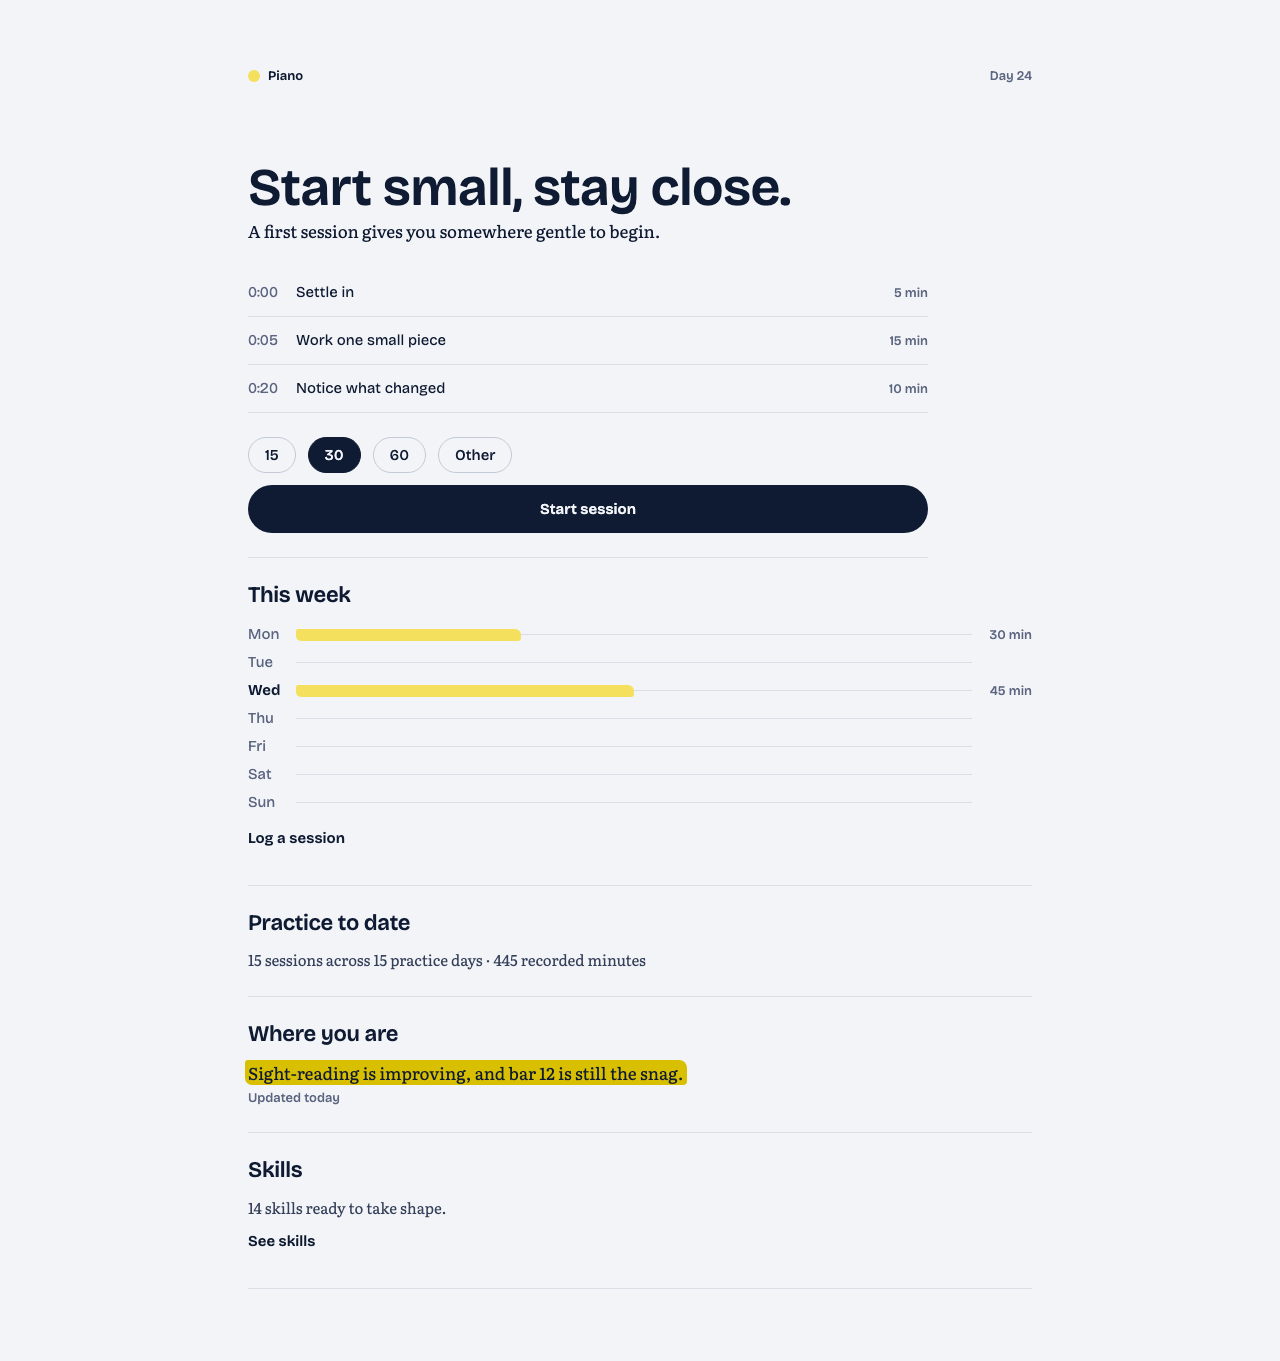
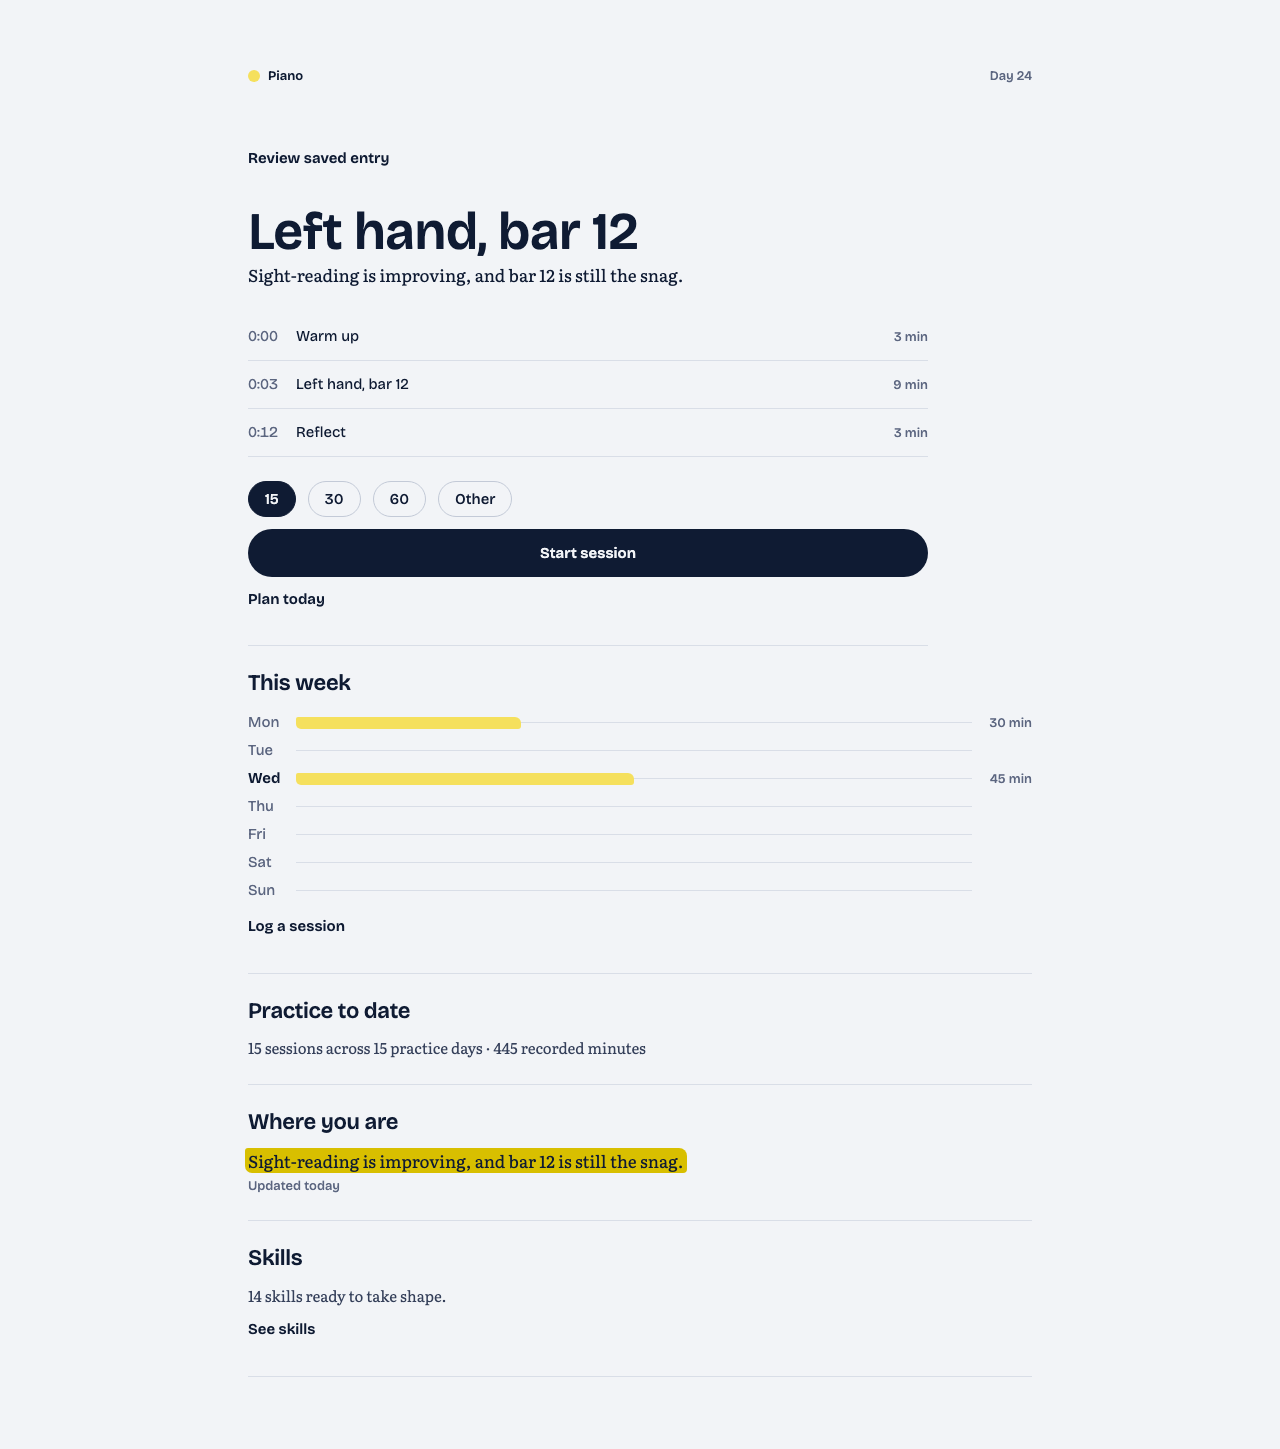
feat: generate timed plans and persist focus sessions through logging

diff --git a/app/j/[id]/page.tsx b/app/j/[id]/page.tsx
@@ -6,7 +6,8 @@ import Link from "next/link";
 import { notFound, redirect } from "next/navigation";
 import { getJourneyView } from "@/lib/db/queries";
 import { Button } from "@/components/ui/button";
-import { Chip } from "@/components/ui/chip";
+import { SessionDuration } from "@/components/features/session-duration";
+import { beginFocus } from "./plan/actions";
 import { WeekLines } from "@/components/marks/week-lines";
 import { Mark } from "@/components/marks/mark";
 
@@ -37,4 +38,4 @@ export default async function Home({ params, searchParams }: PageProps<"/j/[id]"
   return <main className="journey" style={{ "--hue": view.journey.hue } as React.CSSProperties}><header className="topbar"><Link href="/new" className="journey-pill"><i />{view.journey.name}</Link><span>Day {Math.max(1, differenceInCalendarDays(now, parseISO(view.journey.startDate)) + 1)}</span></header>{saved && <p role="status">Entry saved.</p>}<ResumeExtractions entries={outstanding.filter(row=>row.status!=="ready").map(row=>row.id)} />{outstanding.length>0 && <Link className="text-link" href={`/j/${id}/log?entry=${outstanding[0].id}`}>Review saved entry</Link>}<section className="home-hero"><h1>{plan?.title ?? "Start small, stay close."}</h1><p className="reading">{plan?.why || "A first session gives you somewhere gentle to begin."}</p><div className="session-preview">{plan ? plan.blocks.map((block,i)=>{
     const offset=elapsed; elapsed+=block.minutes;
     return <p key={i}><span>{Math.floor(offset/60)}:{String(offset%60).padStart(2,"0")}</span>{block.title}<small>{block.minutes} min</small></p>;
-  }) : <><p><span>0:00</span> Settle in <small>5 min</small></p><p><span>0:05</span> Work one small piece <small>15 min</small></p><p><span>0:20</span> Notice what changed <small>10 min</small></p></>}</div><div className="cluster"><Chip>15</Chip><Chip selected>30</Chip><Chip>60</Chip><Chip>Other</Chip></div><Button>Start session</Button></section><section><h2>This week</h2><WeekLines days={days} /><Link className="text-link" href={`/j/${id}/log`}>Log a session</Link></section><section><h2>Practice to date</h2><p className="reading-small">{sessions.length} {sessions.length === 1 ? "session" : "sessions"} across {practiceDays} practice {practiceDays === 1 ? "day" : "days"} · {totalMinutes} recorded minutes</p></section><section><h2>Where you are</h2><p className="reading"><Mark deep>{view.state?.summary || view.charter?.startingPoint || "Starting from where you are today."}</Mark></p><small>Updated today</small></section><section><h2>Skills</h2><p className="reading-small">{view.skills.length} skills ready to take shape.</p><Link className="text-link" href={`/j/${id}/skills`}>See skills</Link></section></main>; }
+  }) : <><p><span>0:00</span> Settle in <small>5 min</small></p><p><span>0:05</span> Work one small piece <small>15 min</small></p><p><span>0:20</span> Notice what changed <small>10 min</small></p></>}</div><SessionDuration key={plan?.id ?? "first"} journey={id} minutes={plan?.blocks.reduce((sum,b)=>sum+b.minutes,0) ?? 30}/>{plan ? <form action={beginFocus.bind(null,id,plan.id)}><Button>Start session</Button></form> : <Link className="button button--primary" href={`/j/${id}/plan`}>Plan today</Link>}{plan && <Link className="text-link" href={`/j/${id}/plan`}>Plan today</Link>}</section><section><h2>This week</h2><WeekLines days={days} /><Link className="text-link" href={`/j/${id}/log`}>Log a session</Link></section><section><h2>Practice to date</h2><p className="reading-small">{sessions.length} {sessions.length === 1 ? "session" : "sessions"} across {practiceDays} practice {practiceDays === 1 ? "day" : "days"} · {totalMinutes} recorded minutes</p></section><section><h2>Where you are</h2><p className="reading"><Mark deep>{view.state?.summary || view.charter?.startingPoint || "Starting from where you are today."}</Mark></p><small>Updated today</small></section><section><h2>Skills</h2><p className="reading-small">{view.skills.length} skills ready to take shape.</p><Link className="text-link" href={`/j/${id}/skills`}>See skills</Link></section></main>; }

diff --git a/components/features/focus-timer.tsx b/components/features/focus-timer.tsx
@@ -1,0 +1,59 @@
+"use client";
+import Link from "next/link";
+import { useEffect,useState } from "react";
+import type { Plan } from "@/lib/db/plans";
+import { Button } from "@/components/ui/button";
+import { finishFocus } from "@/app/j/[id]/plan/actions";
+
+type Position = {index:number; remaining:number; deadline:number|null};
+export function FocusTimer({journey,plan}:{journey:string;plan:Plan & {id:string;status:string}}) {
+  const [position,setPosition]=useState<Position|null>(null);
+  const [now,tick]=useState(0);
+  const [hidden,hide]=useState(false);
+  const key=`marginalia-focus-${plan.id}`;
+  useEffect(()=>{
+    const start=Date.now();
+    const duration=plan.blocks[0].minutes*60;
+    let saved:Position={index:0,remaining:duration,deadline:start+duration*1000};
+    try {
+      const value=JSON.parse(localStorage.getItem(key) || "null");
+      if(value && Number.isInteger(value.index) && value.index>=0 && value.index<=plan.blocks.length && Number.isFinite(value.remaining) && (value.deadline===null || Number.isFinite(value.deadline))) saved=value;
+    } catch {}
+    if(plan.status==="finished") saved.index=plan.blocks.length;
+    const frame=requestAnimationFrame(()=>{setPosition(saved); tick(start);});
+    const timer=setInterval(()=>tick(Date.now()),500);
+    return ()=>{ cancelAnimationFrame(frame); clearInterval(timer); };
+  },[key,plan]);
+  useEffect(()=>{ if(position) { try {localStorage.setItem(key,JSON.stringify(position));} catch {} } },[key,position]);
+  const finished=position?.index===plan.blocks.length;
+  useEffect(()=>{
+    if(finished) return;
+    let active=true;
+    let lock:WakeLockSentinel|undefined;
+    async function keepAwake() {
+      if(document.visibilityState!=="visible" || !navigator.wakeLock) return;
+      try { const next=await navigator.wakeLock.request("screen"); if(active) lock=next; else await next.release(); } catch {}
+    }
+    void keepAwake(); document.addEventListener("visibilitychange",keepAwake);
+    return ()=>{active=false;document.removeEventListener("visibilitychange",keepAwake);void lock?.release();};
+  },[finished]);
+  const home=`/j/${journey}`;
+  if(!position) return <main className="journey"><p>Opening session…</p></main>;
+  if(finished) return <main className="journey"><h1>Session finished</h1><Link className="button button--primary" href={`${home}/log?plan=${plan.id}`}>Log it</Link> <Link className="text-link" href={home}>Skip logging</Link></main>;
+  const block=plan.blocks[position.index];
+  const remaining=position.deadline===null ? position.remaining : Math.max(0,Math.ceil((position.deadline-now)/1000));
+  async function advance() {
+    if(!position) return;
+    const index=position.index+1;
+    const duration=(plan.blocks[index]?.minutes??0)*60;
+    if(index===plan.blocks.length) await finishFocus(journey,plan.id);
+    setPosition({index,remaining:duration,deadline:Date.now()+duration*1000});
+  }
+  return <main className="journey"><header className="topbar"><Link className="back-link" href={home}>Close</Link><span>Block {position.index+1} of {plan.blocks.length}</span></header>
+    <h1>{block.title}</h1><p className="reading">{block.instructions}</p>
+    {!hidden && <p className="focus-clock">{Math.floor(remaining/60)}:{String(remaining%60).padStart(2,"0")}</p>}
+    <Button variant="ghost" onClick={()=>hide(!hidden)}>{hidden?"Show timer":"Hide timer"}</Button>
+    <div className="cluster"><Button variant="ghost" onClick={advance}>Skip</Button>
+    <Button variant="secondary" onClick={()=>setPosition({...position,remaining,deadline:position.deadline===null?Date.now()+remaining*1000:null})}>{position.deadline===null?"Resume":"Pause"}</Button>
+    <Button onClick={advance}>Done</Button></div></main>;
+}

diff --git a/app/j/[id]/log/page.tsx b/app/j/[id]/log/page.tsx
@@ -2,6 +2,7 @@ import Link from "next/link";
 import { notFound, redirect } from "next/navigation";
 import { randomUUID } from "node:crypto";
 import { format, parseISO, isValid } from "date-fns";
+import { findPlan } from "@/lib/db/plans";
 import { EntryReview } from "@/components/features/entry-review";
 import { ReviewSheet } from "@/components/features/review-sheet";
 import { getJourney } from "@/lib/db/queries";
@@ -13,6 +14,7 @@ export default async function Log({ params, searchParams }: PageProps<"/j/[id]/l
   const journey = await getJourney(id);
   if (!journey) notFound();
   const query = await searchParams;
+  const plan=findPlan(id,query.plan);
   const reviewId = typeof query.entry === "string" ? query.entry : "";
   const review = sqlite.prepare("SELECT e.id,p.status FROM log_entry e LEFT JOIN proposal p ON p.source_ref=e.id AND p.kind='extraction' WHERE e.journey_id=? AND e.id=? AND e.kind!='rest'").get(id,reviewId) as {id:string;status?:string}|undefined;
   const changes = review?.status === "applied" ? sqlite.prepare(`SELECT s.name,v.level_after AS level,v.delta FROM skill_event v JOIN skill s ON s.id=v.skill_id WHERE v.entry_id=? AND v.delta!=0 ORDER BY v.rowid`).all(review.id) as {name:string;level:number;delta:number}[] : [];
@@ -46,8 +48,8 @@ export default async function Log({ params, searchParams }: PageProps<"/j/[id]/l
     <h1>Log a session</h1>
     <form action={save}>
       <label>Session date<input type="date" name="date" required defaultValue={format(new Date(),"yyyy-MM-dd")} max={format(new Date(),"yyyy-MM-dd")} /></label>
-      <label>What did you do?<textarea name="note" required maxLength={8000} placeholder="What clicked, or where did you get stuck?" /></label>
-      <label>Minutes (optional)<input name="minutes" type="number" min="0" max="600" /></label>
+      <label>What did you do?<textarea defaultValue={plan?.blocks.map(block=>block.title).join(", ")} name="note" required maxLength={8000} placeholder="What clicked, or where did you get stuck?" /></label>
+      <label>Minutes (optional)<input defaultValue={plan?.blocks.reduce((sum,b)=>sum+b.minutes,0)} name="minutes" type="number" min="0" max="600" /></label>
       <label>Energy<select name="energy" defaultValue=""><option value="">Unspecified</option><option value="low">Low</option><option value="medium">Medium</option><option value="high">High</option></select></label>
       <Button>Save entry</Button>
       <Button variant="ghost" name="kind" value="rest" formNoValidate>Log a rest day</Button>

diff --git a/app/j/[id]/plan/actions.ts b/app/j/[id]/plan/actions.ts
@@ -1,0 +1,37 @@
+"use server";
+
+import { redirect, notFound } from "next/navigation";
+import { getJourneyView } from "@/lib/db/queries";
+import { draftPlan, storePlan } from "@/lib/db/plans";
+import { sqlite } from "@/lib/db/client";
+
+export async function generatePlan(journey:string, data:FormData) {
+  const view = await getJourneyView(journey);
+  if (!view) notFound();
+  const requested = Number(data.get("minutes"));
+  const refinement = String(data.get("refinement") || "");
+  const minutes = refinement === "Shorter" ? Math.max(5,Math.round(requested*0.7)) : requested;
+  if (!Number.isInteger(minutes) || minutes<5 || minutes>600) throw Error("Choose 5 to 600 minutes.");
+  const context = [view.state?.summary, view.charter?.goal, data.get("energy"), String(data.get("note")||"").slice(0,1000)].filter(Boolean).join("\n");
+  const plan = await draftPlan(journey,minutes,refinement,context);
+  const id = sqlite.transaction(()=>storePlan(journey,plan,"plan"))();
+  redirect(`/j/${journey}/plan?plan=${id}`);
+}
+
+export async function beginFocus(journey:string,id:string) {
+  const changed = sqlite.prepare("UPDATE plan_item SET status='started' WHERE id=? AND journey_id=? AND status IN ('planned','started')").run(id,journey);
+  if (!changed.changes) redirect(`/j/${journey}/plan`);
+  redirect(`/j/${journey}/focus?plan=${id}`);
+}
+
+export async function finishFocus(journey:string,id:string) {
+  sqlite.prepare("UPDATE plan_item SET status='finished' WHERE id=? AND journey_id=? AND status='started'").run(id,journey);
+}
+
+export async function changeDuration(journey:string,minutes:number) {
+  if (!Number.isInteger(minutes) || minutes<5 || minutes>600) throw Error("Choose 5 to 600 minutes.");
+  const view=await getJourneyView(journey);
+  if(!view) notFound();
+  const plan=await draftPlan(journey,minutes,"",view.state?.summary || view.charter?.goal || "");
+  sqlite.transaction(()=>storePlan(journey,plan,"duration"))();
+}

diff --git a/components/features/session-duration.tsx b/components/features/session-duration.tsx
@@ -1,0 +1,29 @@
+"use client";
+import { useEffect,useRef,useState,useTransition } from "react";
+import { useRouter } from "next/navigation";
+import { Chip } from "@/components/ui/chip";
+import { changeDuration } from "@/app/j/[id]/plan/actions";
+
+export function SessionDuration({journey,minutes}:{journey:string;minutes:number}) {
+  const [selected,select]=useState(minutes);
+  const [custom,showCustom]=useState(![15,30,60].includes(minutes));
+  const [error,setError]=useState("");
+  const [pending,start]=useTransition();
+  const timeout=useRef<ReturnType<typeof setTimeout>|undefined>(undefined);
+  const router=useRouter();
+  useEffect(()=>()=>clearTimeout(timeout.current),[]);
+  function choose(value:number) {
+    select(value);
+    clearTimeout(timeout.current);
+    if(!Number.isInteger(value)||value<5||value>600) return;
+    timeout.current=setTimeout(()=>start(async()=>{
+      setError("");
+      try {await changeDuration(journey,value);router.refresh();}
+      catch {setError("Couldn’t update the plan. Choose a duration to try again.");}
+    }),350);
+  }
+  return <><div className="cluster">{[15,30,60].map(n=><Chip key={n} selected={!custom&&selected===n} disabled={pending} onClick={()=>{showCustom(false);choose(n);}}>{n}</Chip>)}
+    <Chip selected={custom} disabled={pending} onClick={()=>showCustom(!custom)}>Other</Chip></div>
+    {custom && <label>Minutes <input aria-label="Session minutes" type="number" min={5} max={600} value={selected || ""} disabled={pending} onChange={event=>choose(Number(event.target.value))}/></label>}
+    {pending && <small role="status">Updating your plan…</small>}{error && <p role="alert">{error}</p>}</>;
+}

diff --git a/app/j/[id]/plan/page.tsx b/app/j/[id]/plan/page.tsx
@@ -1,0 +1,25 @@
+import { PlanPreferences } from "@/components/features/plan-preferences";
+import Link from "next/link";
+import { notFound } from "next/navigation";
+import { getJourney } from "@/lib/db/queries";
+import { findPlan } from "@/lib/db/plans";
+import { generatePlan, beginFocus } from "./actions";
+import { Button } from "@/components/ui/button";
+
+export default async function PlanPage({params,searchParams}:PageProps<"/j/[id]/plan">) {
+  const {id}=await params;
+  const journey=await getJourney(id);
+  if (!journey) notFound();
+  const query=await searchParams;
+  const plan=findPlan(id,query.plan);
+  const minutes=plan?.blocks.reduce((sum,b)=>sum+b.minutes,0) ?? Number(query.minutes || 30);
+  return <main className="onboarding"><Link href={`/j/${id}`} className="back-link">← {journey.name}</Link>
+    <h1>{plan?.title || "Plan today"}</h1>
+    {plan && <><p className="reading">{plan.why}</p>{plan.blocks.map((block,i)=><section key={i}><h2>{block.title} <small>{block.minutes} min</small></h2><p className="reading">{block.instructions}</p></section>)}
+    <form action={beginFocus.bind(null,id,plan.id)}><Button>Start session</Button></form></>}
+    <form action={generatePlan.bind(null,id)}>
+      {plan ? <><input type="hidden" name="minutes" value={minutes}/><div className="cluster">{["Make it easier","Shorter","Different focus"].map(label=><button className="chip" key={label} name="refinement" value={label}>{label}</button>)}</div></> :
+      <><PlanPreferences initial={minutes}/>
+      <label>Anything the plan should know?<textarea name="note" maxLength={1000}/></label><Button>Plan my session</Button></>}
+    </form></main>;
+}

diff --git a/components/features/plan-preferences.tsx b/components/features/plan-preferences.tsx
@@ -1,0 +1,14 @@
+"use client";
+import {useState} from "react";
+import { Chip } from "@/components/ui/chip";
+
+export function PlanPreferences({initial}:{initial:number}) {
+  const presets=[10,20,30,45,60];
+  const [minutes,setMinutes]=useState(initial);
+  const [custom,setCustom]=useState(!presets.includes(initial));
+  const [energy,setEnergy]=useState("Medium");
+  return <><fieldset><legend>How long?</legend><div className="cluster">{presets.map(n=><Chip key={n} type="button" selected={!custom&&minutes===n} onClick={()=>{setCustom(false);setMinutes(n);}}>{n}</Chip>)}
+    <Chip type="button" selected={custom} onClick={()=>setCustom(true)}>Other</Chip></div>
+    {custom?<label>Minutes<input type="number" name="minutes" min="5" max="600" defaultValue={minutes} required/></label>:<input type="hidden" name="minutes" value={minutes}/>}</fieldset>
+    <fieldset><legend>How’s your energy?</legend><div className="cluster">{["Low","Medium","High"].map(option=><Chip key={option} type="button" selected={energy===option} onClick={()=>setEnergy(option)}>{option}</Chip>)}</div><input type="hidden" name="energy" value={energy}/></fieldset></>;
+}

diff --git a/lib/db/plans.ts b/lib/db/plans.ts
@@ -45,3 +45,9 @@ export function storePlan(journey:string,plan:Plan,source:string) {
   sqlite.prepare("INSERT INTO plan_item VALUES (?,?,?,?,?,?,'planned',?,?)").run(id,journey,format(now,"yyyy-MM-dd"),plan.title,plan.why,JSON.stringify(plan.blocks),minutes,now.toISOString());
   return id;
 }
+
+export function findPlan(journey:string,id:unknown) {
+  if (typeof id !== "string") return null;
+  const row=sqlite.prepare("SELECT i.id,i.status,p.diff_json FROM plan_item i JOIN proposal p ON p.id=i.id WHERE i.journey_id=? AND i.id=? AND i.status!='undone'").get(journey,id) as {id:string;status:string;diff_json:string}|undefined;
+  return row ? {id:row.id,status:row.status,...schema.parse(JSON.parse(row.diff_json))} : null;
+}

diff --git a/app/j/[id]/focus/page.tsx b/app/j/[id]/focus/page.tsx
@@ -1,0 +1,10 @@
+import { redirect } from "next/navigation";
+import { findPlan } from "@/lib/db/plans";
+import { FocusTimer } from "@/components/features/focus-timer";
+
+export default async function Focus({params,searchParams}:PageProps<"/j/[id]/focus">) {
+  const {id}=await params;
+  const plan=findPlan(id,(await searchParams).plan);
+  if (!plan) redirect(`/j/${id}/plan`);
+  return <FocusTimer key={plan.id} journey={id} plan={plan}/>;
+}

diff --git a/app/globals.css b/app/globals.css
@@ -50,3 +50,4 @@
 @keyframes result-stroke { from {width:var(--before);} to {width:var(--after);} }
 @keyframes result-wipe { from {background-size:0% 60%;} to {background-size:100% 60%;} }
 @media (prefers-reduced-motion:reduce) { .marking-result * {animation-delay:0ms!important;} }
+.focus-clock { margin:var(--s-7) 0; text-align:center; font-size:clamp(3rem,12vw,5rem); font-variant-numeric:tabular-nums; }
